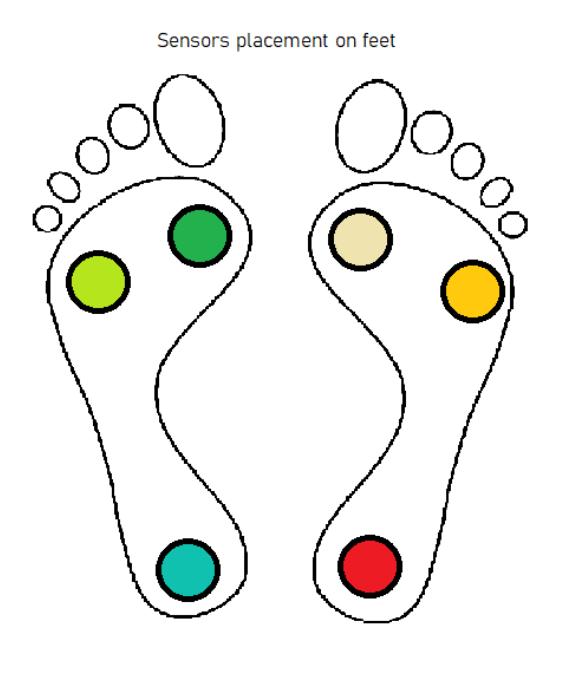
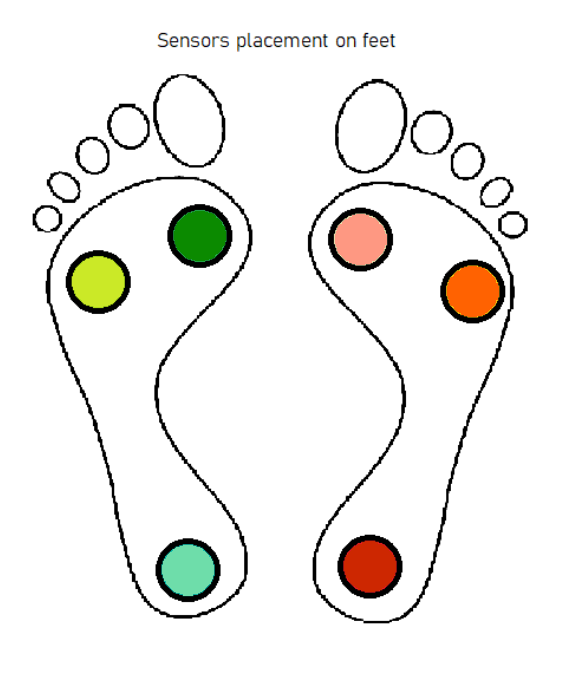
added color scheme

diff --git a/app.py b/app.py
@@ -16,7 +16,7 @@ from dash.dependencies import Input, Output
 
 import models_marshaller
 import tesla_service
-from historic_data_service import get_traces, start_collecting_historic_data, fetch_and_save_trace
+import historic_data_service
 
 external_stylesheets = ['https://codepen.io/chriddyp/pen/bWLwgP.css']
 
@@ -24,9 +24,23 @@ external_stylesheets = ['https://codepen.io/chriddyp/pen/bWLwgP.css']
 client_id = 1
 reload_time = 500
 max_length = 1000
+color_map = {
+    'l0': '#2c8129',
+    'l1': '#cbe927',
+    'l2': '#6eddaa',
+    'r0': '#fe9882',
+    'r1': '#ff6201',
+    'r2': '#cd2701',
+    'L0': '#2c8129',
+    'L1': '#cbe927',
+    'L2': '#6eddaa',
+    'R0': '#fe9882',
+    'R1': '#ff6201',
+    'R2': '#cd2701'
+}
 
 # ON Start
-start_collecting_historic_data()
+historic_data_service.start_collecting_historic_data()
 
 app = dash.Dash(__name__, external_stylesheets=external_stylesheets)
 app.layout = html.Div(children=[
@@ -51,7 +65,7 @@ app.layout = html.Div(children=[
                 'textAlign': 'center',
                 'color': 'blue'
             }),
-    html.Label('Dropdown'),
+    html.Label('Choose a person'),
     dcc.Dropdown(
         id='person-dropdown',
         options=[
@@ -97,7 +111,7 @@ app.layout = html.Div(children=[
             {'label': 'R1', 'value': 'r1'},
             {'label': 'R2', 'value': 'r2'}
         ],
-        value=['L0', 'L1', 'L2'],
+        value=['l0', 'l1', 'l2'],
         labelStyle={'display': 'inline-block'}
     ),
     html.Button(
@@ -105,7 +119,15 @@ app.layout = html.Div(children=[
         id='refresh-historic-data',
         n_clicks=0
     ),
-    dcc.Graph(id='historic-data-graph', animate=True)
+    dcc.Graph(id='historic-data-graph'),
+    dcc.RangeSlider(
+        id='historic-data-slider',
+        min=0,
+        max=3600,
+        step=1,
+        marks=[{i: i} for i in range(0, 3600, 50)],
+        value=[0, 3600]
+    ),
 
 ])
 
@@ -119,10 +141,13 @@ def update_graph_live(reading_json):
     return {
         'data': [
             dict(
-                x=[sensor.id],
+                x=[sensor.name],
                 y=[sensor.value],
-                name=sensor.name,
-                type='bar'
+                type='bar',
+                marker={
+                    'color': color_map[sensor.name]
+                },
+                showlegend=False
             ) for sensor in reading.trace.sensors
         ],
         'layout': {
@@ -177,14 +202,16 @@ def get_person_from_state(reading_json):
      Input('historic-data-interval', 'n_intervals')]
 )
 def display_historic_readings_graph(patient_id, sensor_options, n_intervals):
-    traces = map(lambda t: t.__dict__, get_traces(patient_id))
+    traces = list(map(lambda t: t.__dict__, historic_data_service.get_traces(patient_id)))
     print(len(traces))
     return {
         'data': [
             dict(
-                x=[i for i in range(0, len(traces) - 1)],
+                x=[i for i in range(0, len(traces))],
                 y=[i[s] for i in traces],
-                name=s
+                name=s,
+                mode='lines+markers',
+                type='scatter'
             ) for s in sensor_options
         ],
         'layout': {

diff --git a/anomaly_dao.py b/anomaly_dao.py
@@ -1,0 +1,21 @@
+import json
+
+import models_marshaller
+from tinydb import TinyDB, Query
+
+from models import TraceModel
+
+# This file handles connecting to the database (writing and reading to file historic-readings.json)
+# It breaks all the time so we'll be probably using a different database in the future
+
+db = TinyDB('db/anomaly-readings.json', ensure_ascii=False)
+
+
+def save_trace(trace: TraceModel):
+    return db.table(str(trace.patient_id)).insert(trace.__dict__)
+
+
+def get_traces(patient_id: int) -> [TraceModel]:
+    q = Query()
+    ret = db.table(str(patient_id)).search((q.patient_id == patient_id))
+    return [models_marshaller.trace_model_from_dict(d) for d in ret]
